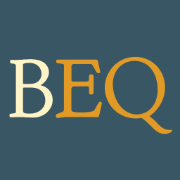
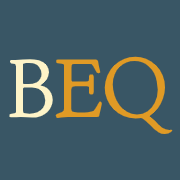
bibeq push ID# 11

diff --git a/html-elem/navbar.html b/html-elem/navbar.html
@@ -39,7 +39,12 @@
 		<link rel="preconnect" href="https://cdnjs.cloudflare.com">
 		
 		<!-- Favicon -->
-		<link rel="icon" type="image/png" href="img/fav/favicon.ico">
+		<link rel="icon" type="image/png" href="/img/fav/favicon-96x96.png" sizes="96x96" />
+		<link rel="icon" type="image/svg+xml" href="/img/fav/favicon.svg" />
+		<link rel="shortcut icon" href="/img/fav/favicon.ico" />
+		<link rel="apple-touch-icon" sizes="180x180" href="/img/fav/apple-touch-icon.png" />
+		<meta name="apple-mobile-web-app-title" content="BibEQ" />
+		<link rel="manifest" href="/img/fav/site.webmanifest" />
 		
 		<!-- Stylesheets -->
 		<link href="css/style.css" rel="stylesheet" type="text/css">
